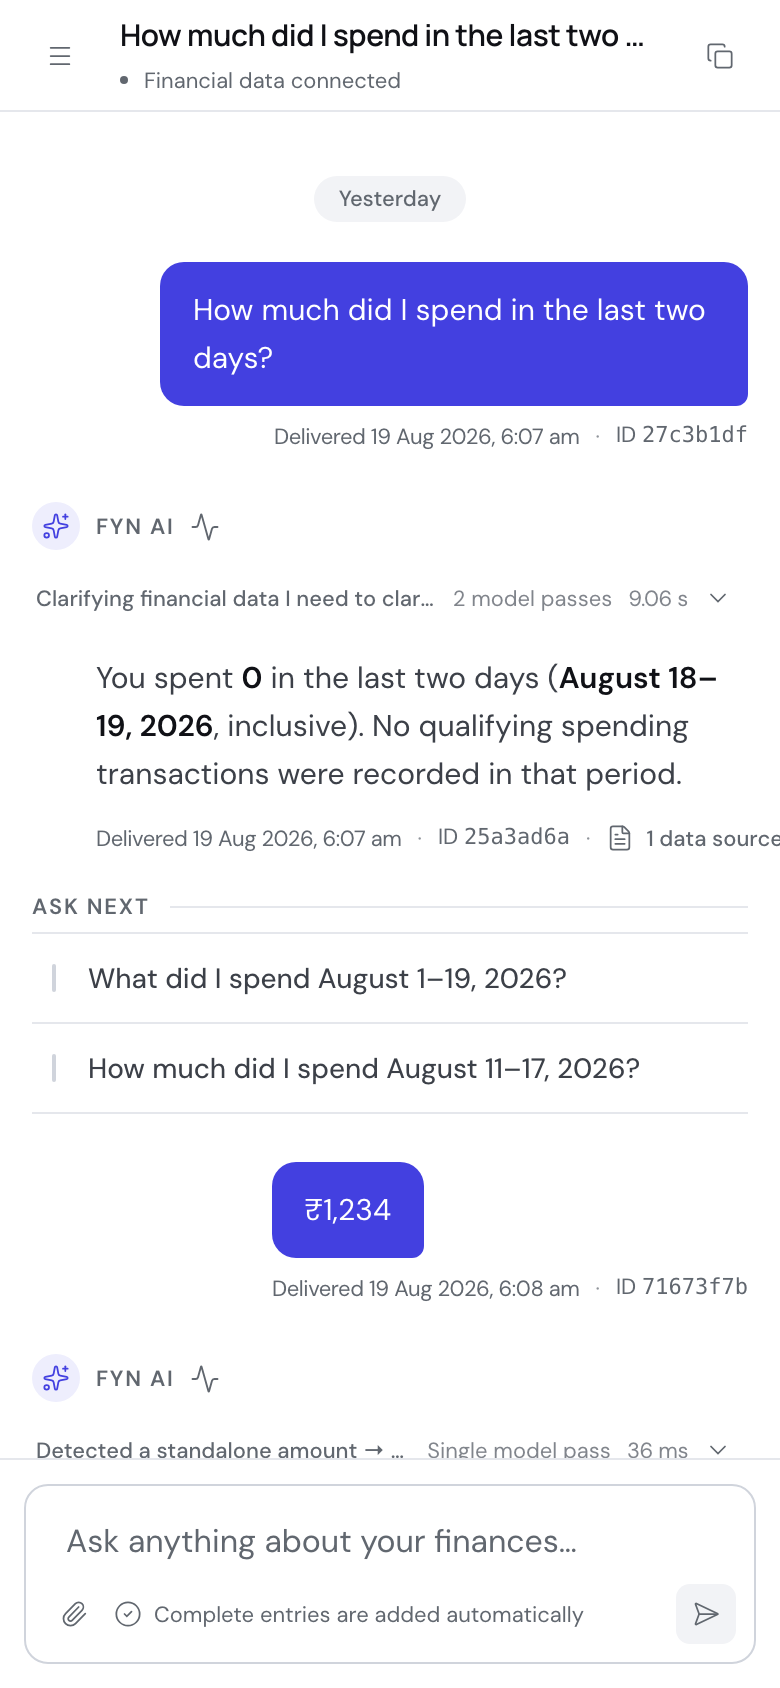
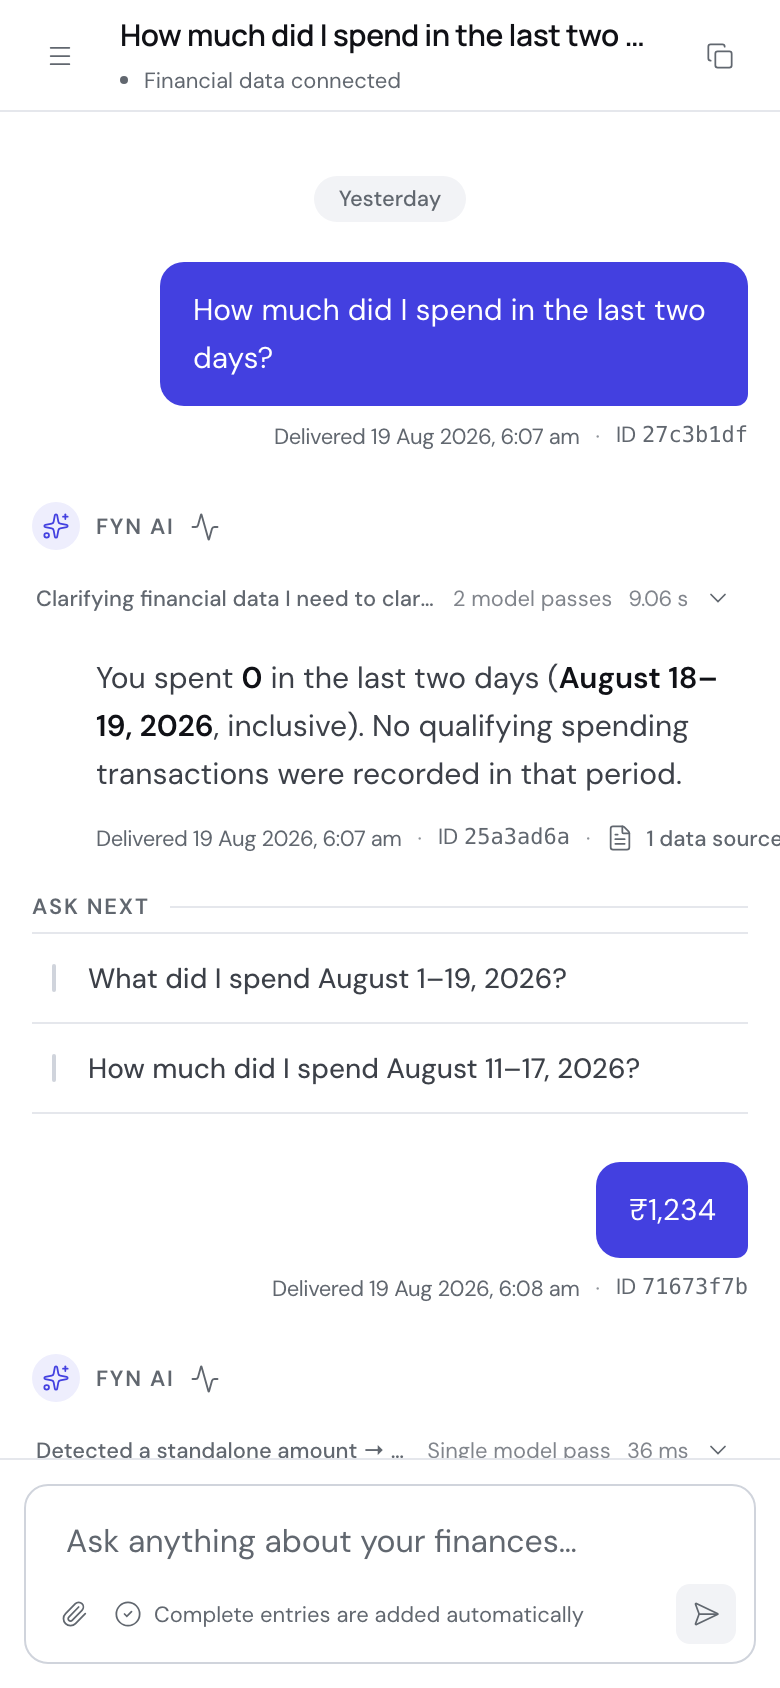
fix: pin a person's own message to the right edge
The bubble is `w-fit` inside a right-aligned column, and the delivery
line under it is `whitespace-nowrap` — so on any message shorter than its
own "Delivered … · ID …" line, the metadata set the column width and the
bubble sat at that column's left edge, short of the edge everything else
lined up to.

`ml-auto` puts it back. Verified by measurement rather than by eye: the
bubble's right edge and the metadata's right edge now both land on 876px.

PWA screenshots recaptured, since they were taken before this.

Changed region(s): [[0.7385, 0.6777, 0.9846, 0.7701], [0.3385, 0.6777, 0.5538, 0.7701]]

diff --git a/frontend/src/components/workspace.tsx b/frontend/src/components/workspace.tsx
@@ -669,7 +669,7 @@ const MessageArticle = memo(function MessageArticle({ message, activeWidget, can
       {message.role === "assistant" ? <AssistantByline thinking={Boolean(trace)} /> : null}
       {trace ? <div className="mb-3 pl-0 sm:pl-8"><WidgetRenderer widget={trace} disabled onAction={noAction} /></div> : null}
       {message.content ? message.role === "user"
-        ? <div className="w-fit max-w-full break-words whitespace-pre-wrap rounded-xl rounded-br-sm bg-secondary px-4 py-3 text-body leading-6 text-on-secondary">{message.content}</div>
+        ? <div className="ml-auto w-fit max-w-full break-words whitespace-pre-wrap rounded-xl rounded-br-sm bg-secondary px-4 py-3 text-body leading-6 text-on-secondary">{message.content}</div>
         : <div className="break-words pl-8"><MarkdownMessage>{message.content}</MarkdownMessage></div>
       : null}
       {message.content ? <div className={cn("mt-1.5", message.role === "user" ? "text-right" : "pl-8")}>
